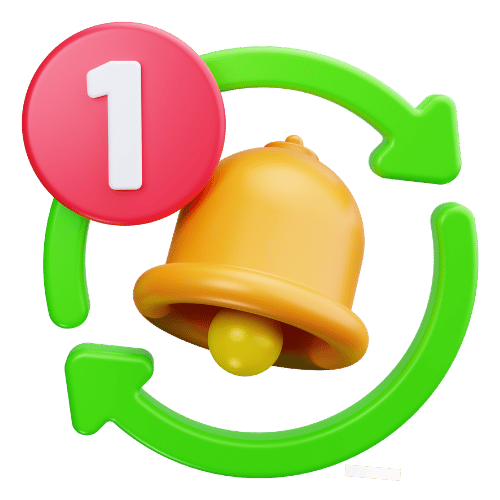
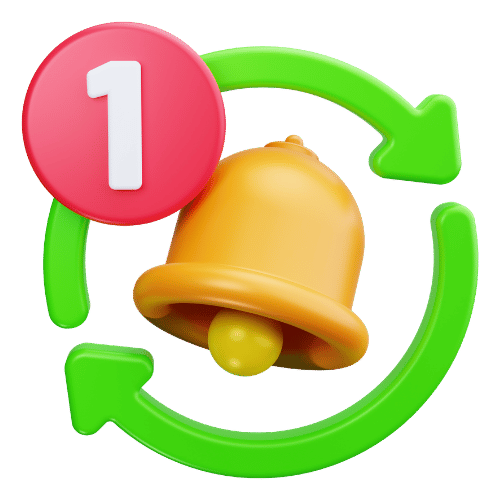
Add product sample images to demonstration carousel

diff --git a/index.html b/index.html
@@ -330,17 +330,19 @@
 
     .demo-slide-card {
       width: 70vw;
-      aspect-ratio: 4/5;
       height: auto;
+      max-height: 380px;
+      object-fit: contain;
       flex-shrink: 0;
-      border-radius: 0;
-      border: 1px dashed rgba(255, 255, 255, 0.2);
-      background-color: #1e293b;
+      border: 1px solid rgba(255, 255, 255, 0.1);
+      display: block;
+      background-color: #0b0f19;
     }
 
     @media (min-width: 768px) {
       .demo-slide-card {
         width: 320px;
+        max-height: 420px;
       }
     }
 
@@ -913,20 +915,18 @@
 
     <div class="demo-slideshow-wrapper">
       <div class="demo-slideshow-track">
-        <!-- 6 slides originais -->
-        <div class="img-placeholder demo-slide-card" id="demo-slide1">[ Amostra 1 ]</div>
-        <div class="img-placeholder demo-slide-card" id="demo-slide2">[ Amostra 2 ]</div>
-        <div class="img-placeholder demo-slide-card" id="demo-slide3">[ Amostra 3 ]</div>
-        <div class="img-placeholder demo-slide-card" id="demo-slide4">[ Amostra 4 ]</div>
-        <div class="img-placeholder demo-slide-card" id="demo-slide5">[ Amostra 5 ]</div>
-        <div class="img-placeholder demo-slide-card" id="demo-slide6">[ Amostra 6 ]</div>
-        <!-- 6 slides cópias idênticas para o loop infinito sem emenda -->
-        <div class="img-placeholder demo-slide-card">[ Amostra 1 ]</div>
-        <div class="img-placeholder demo-slide-card">[ Amostra 2 ]</div>
-        <div class="img-placeholder demo-slide-card">[ Amostra 3 ]</div>
-        <div class="img-placeholder demo-slide-card">[ Amostra 4 ]</div>
-        <div class="img-placeholder demo-slide-card">[ Amostra 5 ]</div>
-        <div class="img-placeholder demo-slide-card">[ Amostra 6 ]</div>
+        <!-- 5 slides originais -->
+        <img src="amostra1.jpg" alt="Amostra 1" class="demo-slide-card" id="demo-slide1">
+        <img src="amostra2.jpg" alt="Amostra 2" class="demo-slide-card" id="demo-slide2">
+        <img src="amostra3.jpg" alt="Amostra 3" class="demo-slide-card" id="demo-slide3">
+        <img src="amostra4.jpg" alt="Amostra 4" class="demo-slide-card" id="demo-slide4">
+        <img src="amostra5.jpg" alt="Amostra 5" class="demo-slide-card" id="demo-slide5">
+        <!-- 5 slides cópias idênticas para o loop infinito sem emenda -->
+        <img src="amostra1.jpg" alt="Amostra 1" class="demo-slide-card">
+        <img src="amostra2.jpg" alt="Amostra 2" class="demo-slide-card">
+        <img src="amostra3.jpg" alt="Amostra 3" class="demo-slide-card">
+        <img src="amostra4.jpg" alt="Amostra 4" class="demo-slide-card">
+        <img src="amostra5.jpg" alt="Amostra 5" class="demo-slide-card">
       </div>
     </div>
   </section>
